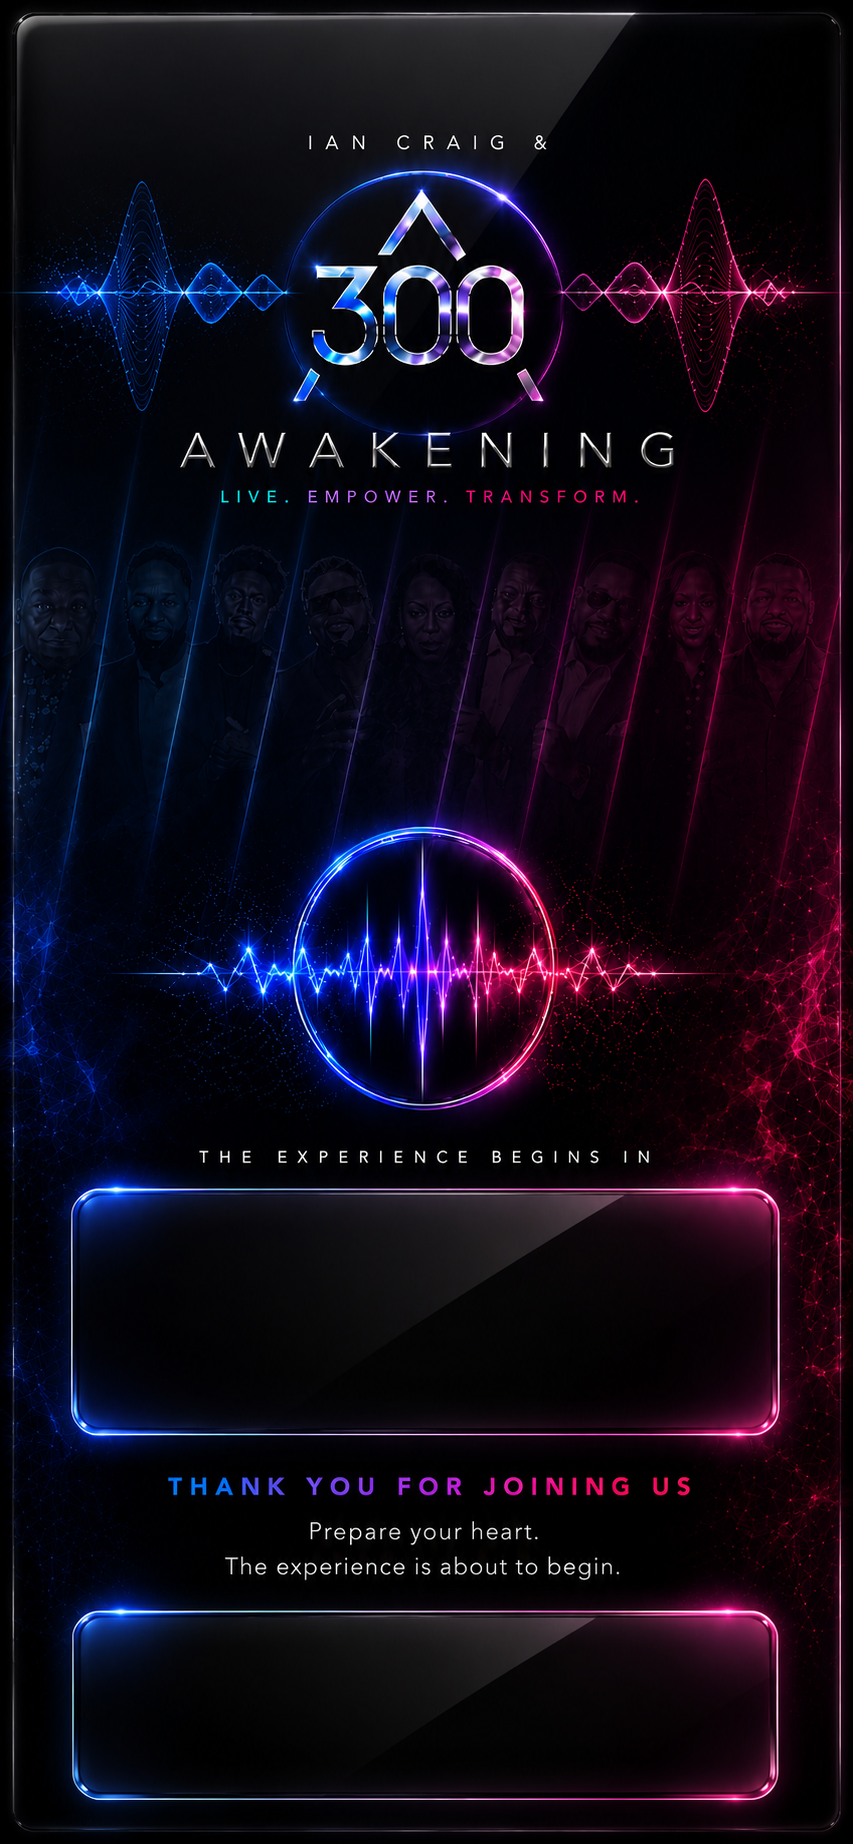
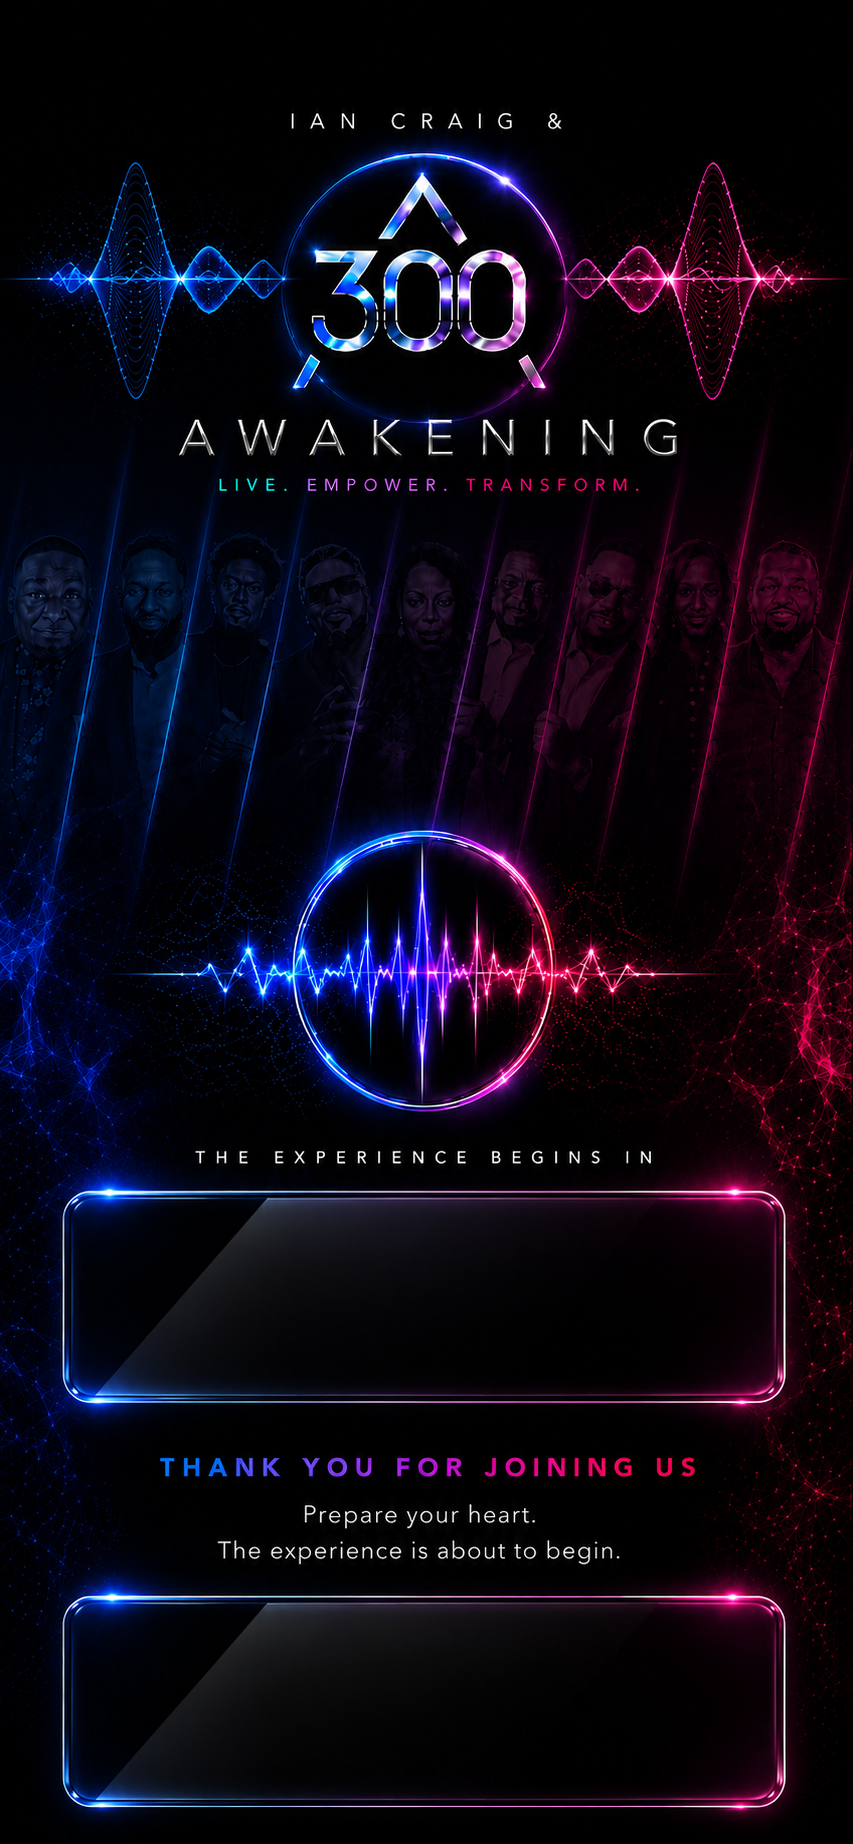
Improve live holding room fit and add dashboard back control.
Full-bleed the holding-room art on the mobile track and add a top-left close button that returns to the attendee dashboard.

diff --git a/app/globals.css b/app/globals.css
@@ -2568,14 +2568,14 @@ html {
   pointer-events: auto;
 }
 
-/* Experience holding room — mobile artboard track + 853×1844 art-fit plate on /live */
+/* Experience holding room — full-bleed 853×1844 plate on mobile app track (/live) */
 .holding-room-page {
   position: relative;
   display: flex;
   flex: 1;
   width: 100%;
-  min-height: 100%;
-  align-items: stretch;
+  min-height: 0;
+  align-items: flex-start;
   justify-content: center;
   overflow: hidden;
   background-color: #000000;
@@ -2583,7 +2583,23 @@ html {
 
 .holding-room-page__stage {
   position: relative;
+  overflow: hidden;
   container-type: inline-size;
+}
+
+.holding-room-page__art-fit {
+  position: absolute;
+  top: 0;
+  left: 0;
+  width: 100%;
+  height: 100%;
+  transform: none;
+}
+
+.holding-room-page__art-fit > img,
+.holding-room-page__bg {
+  object-fit: cover;
+  object-position: center top;
 }
 
 /* Live POV — mobile artboard track only (matches Giving / Buy Seeds) */
@@ -2981,6 +2997,32 @@ html {
 
 .mobile-artboard-top-chrome__menu {
   margin-top: 0;
+}
+
+.mobile-artboard-back-btn {
+  position: absolute;
+  z-index: 12;
+  box-sizing: border-box;
+  display: flex;
+  align-items: center;
+  justify-content: center;
+  border: 1px solid rgb(255 255 255 / 0.12);
+  border-radius: 9999px;
+  background: rgb(0 0 0 / 0.5);
+  color: #ffffff;
+  backdrop-filter: blur(8px);
+  -webkit-backdrop-filter: blur(8px);
+  transition: background-color 160ms ease, border-color 160ms ease;
+}
+
+.mobile-artboard-back-btn:hover {
+  border-color: rgb(0 168 255 / 0.45);
+  background: rgb(0 0 0 / 0.65);
+}
+
+.mobile-artboard-back-btn__icon {
+  width: clamp(1rem, 4.2cqw, 1.25rem);
+  height: clamp(1rem, 4.2cqw, 1.25rem);
 }
 
 /* Experience giving — native amount section + lower control overlays */

diff --git a/components/navigation/MobileArtboardBackButton.tsx b/components/navigation/MobileArtboardBackButton.tsx
@@ -1,0 +1,43 @@
+"use client";
+
+import Link from "next/link";
+import { ChevronLeft, X } from "lucide-react";
+import {
+  ATTENDEE_DASHBOARD_PATH,
+  MOBILE_ARTBOARD_BACK_HOTSPOT,
+} from "@/lib/navigation/back-to-dashboard";
+import type { CSSProperties } from "react";
+
+type MobileArtboardBackButtonProps = {
+  href?: string;
+  label?: string;
+  variant?: "back" | "close";
+  className?: string;
+};
+
+export default function MobileArtboardBackButton({
+  href = ATTENDEE_DASHBOARD_PATH,
+  label = MOBILE_ARTBOARD_BACK_HOTSPOT.label,
+  variant = "back",
+  className = "",
+}: MobileArtboardBackButtonProps) {
+  const Icon = variant === "close" ? X : ChevronLeft;
+
+  return (
+    <Link
+      href={href}
+      aria-label={label}
+      className={`mobile-artboard-back-btn touch-target pointer-events-auto ${className}`.trim()}
+      style={
+        {
+          left: MOBILE_ARTBOARD_BACK_HOTSPOT.left,
+          top: MOBILE_ARTBOARD_BACK_HOTSPOT.top,
+          width: MOBILE_ARTBOARD_BACK_HOTSPOT.width,
+          height: MOBILE_ARTBOARD_BACK_HOTSPOT.height,
+        } as CSSProperties
+      }
+    >
+      <Icon className="mobile-artboard-back-btn__icon" aria-hidden="true" strokeWidth={2.5} />
+    </Link>
+  );
+}

diff --git a/components/experience/holding-room/ExperienceHoldingRoomPageClient.tsx b/components/experience/holding-room/ExperienceHoldingRoomPageClient.tsx
@@ -1,6 +1,7 @@
 "use client";
 
 import { Suspense, type CSSProperties } from "react";
+import MobileArtboardBackButton from "@/components/navigation/MobileArtboardBackButton";
 import {
   HOLDING_ROOM_ART_NATIVE,
   HOLDING_ROOM_ASSETS,
@@ -19,17 +20,19 @@ function ExperienceHoldingRoomPageContent() {
         className="holding-room-page__stage"
         style={mobileArtboardStageStyle({ native: HOLDING_ROOM_ART_NATIVE }) as CSSProperties}
       >
-        <div className="mobile-artboard-art-fit">
+        <div className="mobile-artboard-art-fit holding-room-page__art-fit">
           {/* eslint-disable-next-line @next/next/no-img-element */}
           <img
             src={HOLDING_ROOM_ASSETS.mobileBackground}
             alt="300 Awakening holding room"
             width={HOLDING_ROOM_ART_NATIVE.width}
             height={HOLDING_ROOM_ART_NATIVE.height}
+            className="holding-room-page__bg"
             loading="eager"
             decoding="async"
             draggable={false}
           />
+          <MobileArtboardBackButton variant="close" />
         </div>
       </div>
     </div>

diff --git a/components/experience/live/LiveExperienceClient.tsx b/components/experience/live/LiveExperienceClient.tsx
@@ -113,7 +113,7 @@ function LiveExperienceClientInner({
     }
 
     return (
-      <main className="relative flex min-h-dvh w-full flex-col overflow-x-hidden bg-brand-black pb-safe">
+      <main className="relative flex min-h-dvh w-full flex-col overflow-hidden bg-brand-black">
         <ExperienceHoldingRoomPageClient initialCountdownConfig={initialCountdownConfig} />
       </main>
     );
